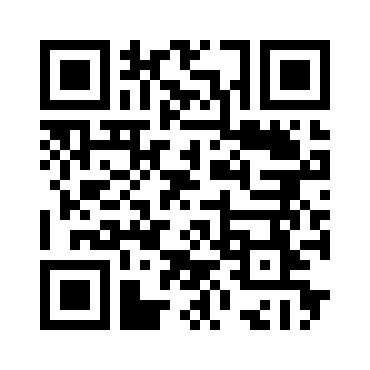
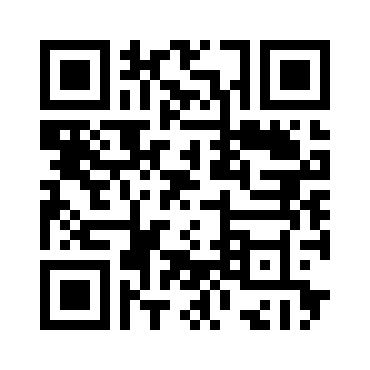
improve qr generator

diff --git a/src/utils/qr_generator.py b/src/utils/qr_generator.py
@@ -1,3 +1,4 @@
+import json
 import logging
 
 import qrcode
@@ -17,9 +18,9 @@ class QrGenerator:
         except Exception as e:
             logger.exception(e)
 
-    def encrypt_data(self, data: str):
+    def encrypt_data(self, data: dict):
         try:
-            self.qr.add_data(data)
+            self.qr.add_data(json.dumps(data))
             self.qr.make(fit=True)
             return self
         except Exception as e:

diff --git a/main.py b/main.py
@@ -53,8 +53,6 @@ class ReadQRView(views.MethodView):
         except json.decoder.JSONDecodeError:
             response = qr_reader.read_qr_code()
 
-        current_app.logger.error(qr_reader.read_qr_code())
-
         return CustomResponse({"result": response})
 
 
